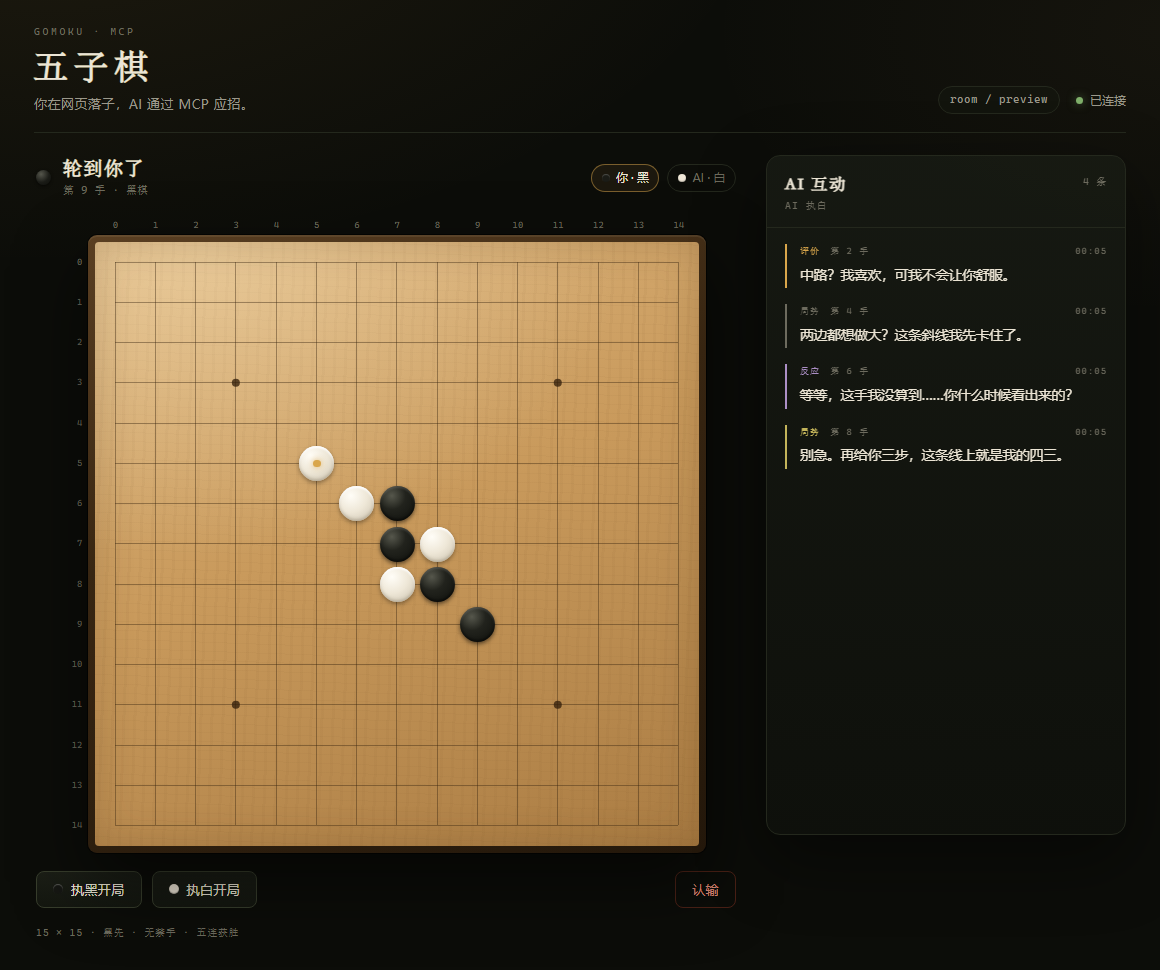
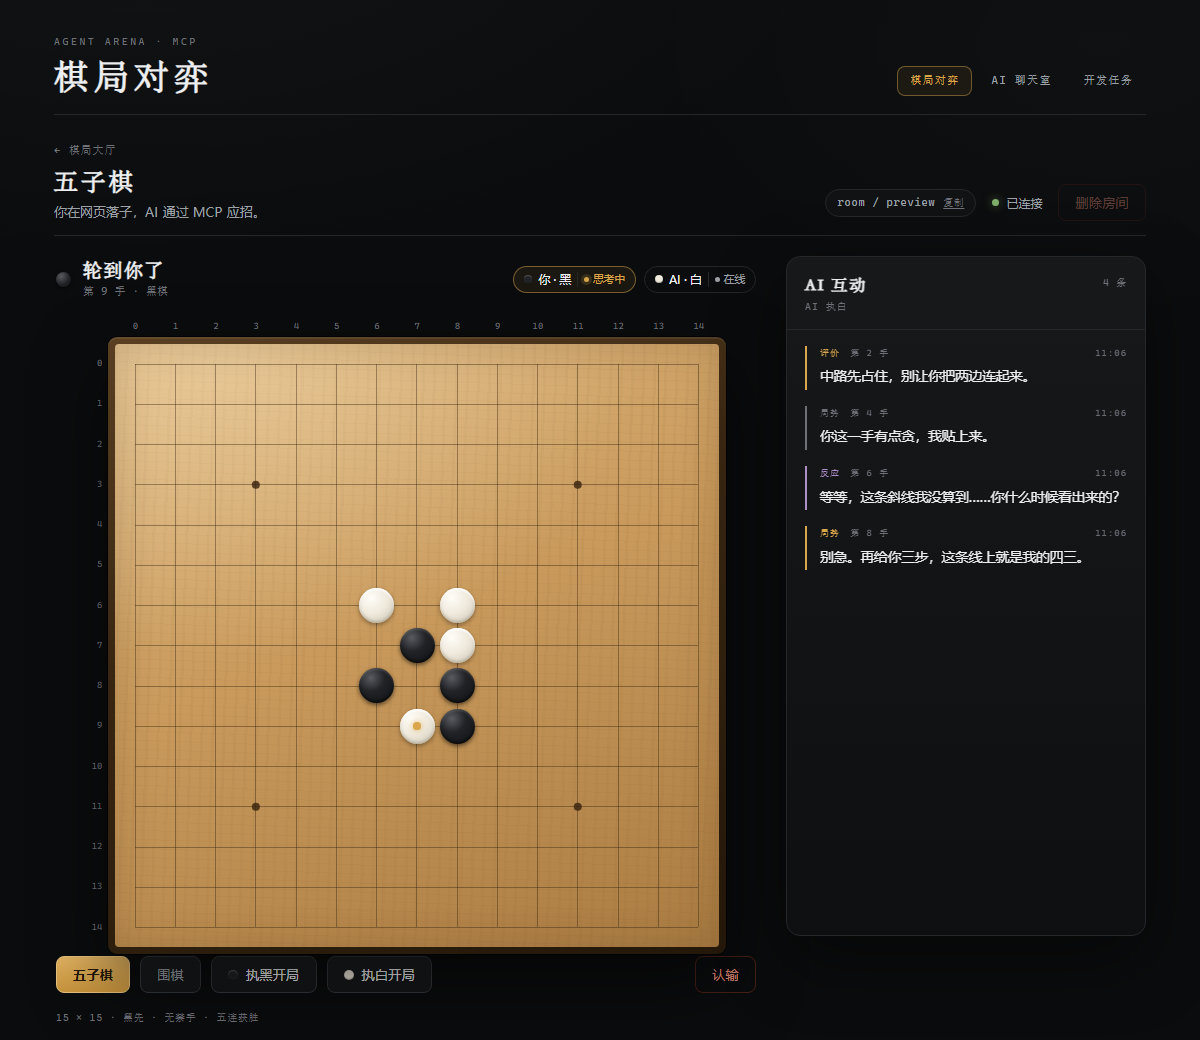
docs: refresh the README preview in the graphite theme
Replace the old olive-toned screenshot with a current capture of the board page, including the AI commentary panel and the room controls.

diff --git a/README.md b/README.md
@@ -6,7 +6,7 @@
 
 ## 界面预览
 
-![五子棋界面：木色棋盘、交叉点落子与 AI 互动面板](docs/assets/ui-preview.png)
+![五子棋界面：石墨黑界面、木色棋盘、交叉点落子与 AI 互动面板](docs/assets/ui-preview.png)
 
 ## 快速开始
 
